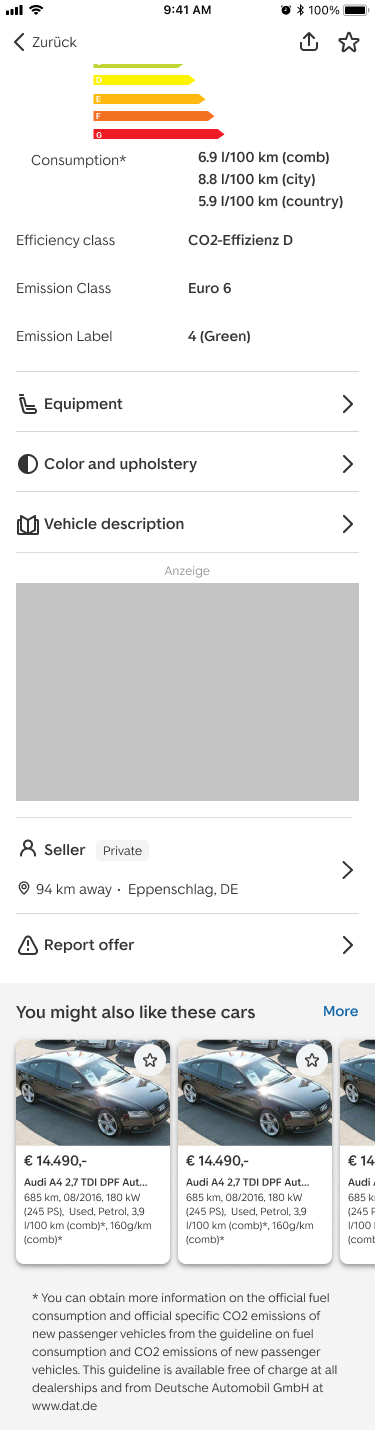
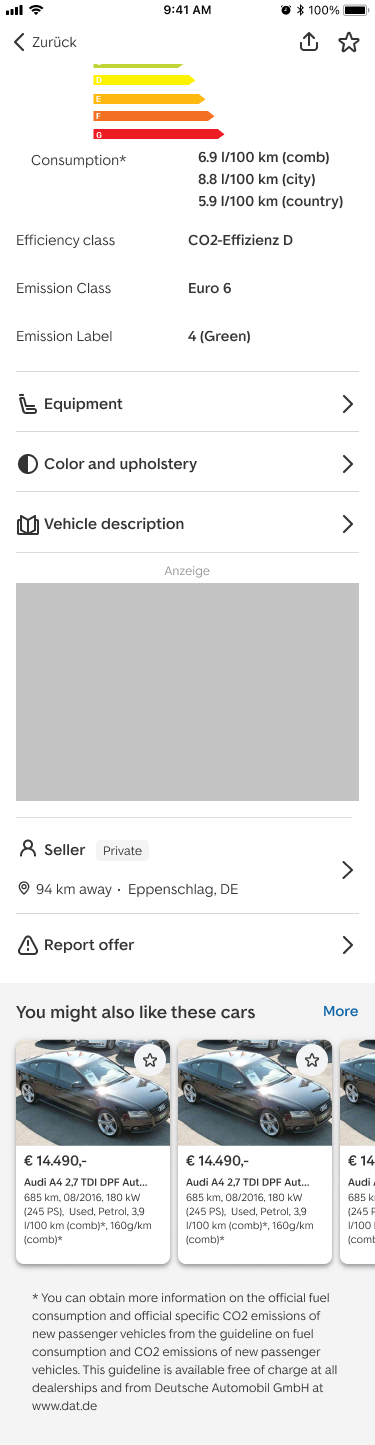
Homescreen: app-only team and timeline, endless feed, equal screen heights
Claude-Session: https://claude.ai/code/session_01QWqCh6wzMNRSwyHv5Hem1Z

diff --git a/src/content/projects.ts b/src/content/projects.ts
@@ -400,7 +400,7 @@ export const selectedProjects: Project[] = [
       "A sequence of A/B experiments turned a generic homepage into a personalised entry point, including a pivot when live data contradicted user testing.",
     company: "AutoScout24",
     role: "Product Designer",
-    platform: "iOS, Android, Web",
+    platform: "iOS, Android",
     tags: ["Personalisation", "A/B Testing", "Experimentation", "Data-informed"],
     thumbnail: {
       src: "/images/projects/project-2/thumb.png",
@@ -420,7 +420,7 @@ export const selectedProjects: Project[] = [
     sections: [
       {
         heading: "My Role & Team",
-        body: "[verify: team, e.g. the Audience team in the Growth squad, and timeframe.]\n\nI designed every iteration across iOS, Android and web and worked with the PM and engineers on each test.",
+        body: "An app-only project, from Q1 to Q3 2025. I worked with a PM and four engineers (two iOS, two Android).\n\nI designed every iteration for iOS and Android and worked with the PM and engineers on each test.",
       },
       {
         heading: "Small Steps, Each One Tested",
@@ -438,7 +438,7 @@ export const selectedProjects: Project[] = [
       },
       {
         heading: "Iterations",
-        body: "Each version answered a question the previous one raised. A simpler two-column grid let more cars fit on screen. Horizontal rows grouped by type were clear in testing but lost clicks live. Two tabs kept the grid and added deals as their own category. The final iteration replaced the tabs with chips, so more recommendation types fit without crowding, and the most clicked types come first. The chips are what shipped.",
+        body: "Each version answered a question the previous one raised. A simpler two-column grid let more cars fit on screen. Horizontal rows grouped by type were clear in testing but lost clicks live. Two tabs kept the grid and added deals as their own category. The final iteration replaced the tabs with chips, so more recommendation types fit without crowding, and the most clicked types come first. The chips are what shipped.\n\nThe grid also became an endless feed. Scrolling is one of the most engaging patterns on mobile, and a recommender has no natural end, so there was no reason to stop users after a fixed number of cars. Recommendations load in batches of 24: the first batch comes with the page, and the next one loads in the background as the user scrolls towards the end. That keeps the app smooth and avoids downloading cars nobody will see, while users can keep scrolling for as long as they like.",
         gallery: {
           items: [
             { src: "/images/projects/project-2/screens/hs-3-horizontal.png", alt: "Horizontal rows grouped by recommendation type", caption: "Horizontal rows: ~21% fewer clicks" },
@@ -461,7 +461,7 @@ export const selectedProjects: Project[] = [
       },
       {
         heading: "Outcome",
-        body: "Expanding the pool and simplifying the cards each produced a measurable uplift in recommendation clicks. [verify: overall uplift from the final shipped version]\n\nComparing recommendation types also showed a clear ranking: 'Based on your last view' and 'Reduced offers' performed best, followed by 'Based on your last search'. That decided the order of categories in the final design.",
+        body: "Expanding the pool and simplifying the cards each produced a measurable uplift in recommendation clicks, and the final chips layout performs well: users engage with it and keep scrolling through the feed.\n\nComparing recommendation types also showed a clear ranking: 'Based on your last view' and 'Reduced offers' performed best, followed by 'Based on your last search'. That decided the order of categories in the final design.",
         image: {
           src: "/images/projects/project-2/detail-3.png",
           alt: "Final recommendation layout",
